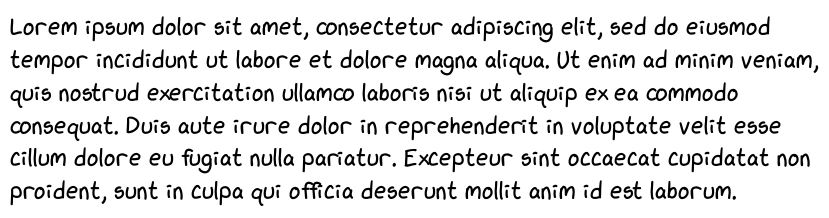
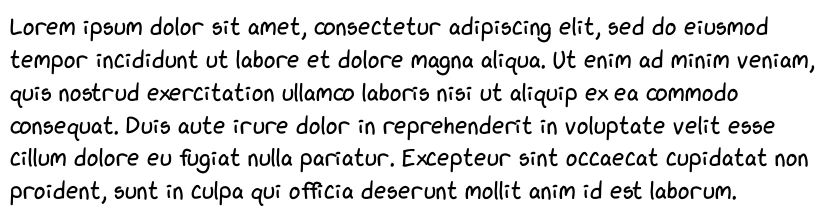
fix r_e kerning

diff --git a/xkcd-script/generator/pt7_font_properties.py b/xkcd-script/generator/pt7_font_properties.py
@@ -103,6 +103,7 @@ def autokern(font):
     kern(175, ['r'], ['i'], minKern=35)
     kern(180, ['r'], ['g', 'x'], minKern=35)
     kern(100, ['r'], lower, minKern=50)
+    kern(60, ['r'], ['e'], minKern=30)
     kern(60, ['s'], lower, minKern=50)
     # f has a long right-arm; kern slightly tighter than default but don't overdo it.
     kern(75, ['f'], lower, minKern=40)
